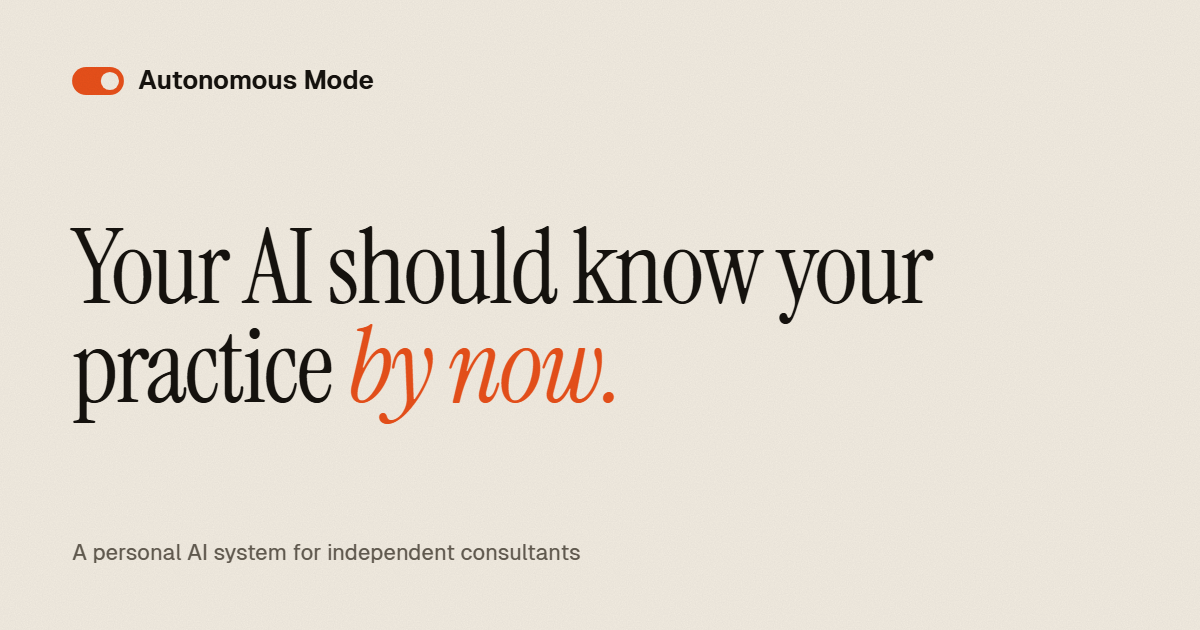
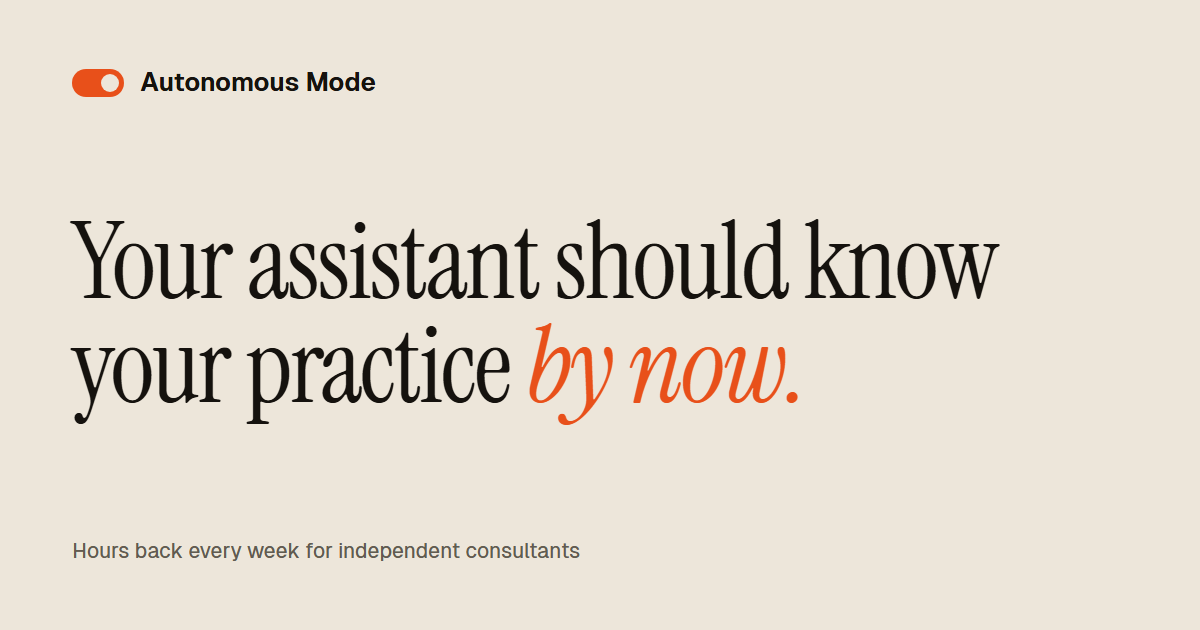
Lead with the result, not "AI": title, hero, meta and share image
Tab title now "hours back every week for independent consultants";
hero and og:title say "assistant"; descriptions and the share image
drop "AI" from the first thing a buyer sees.

diff --git a/index.html b/index.html
@@ -3,15 +3,15 @@
 <head>
 <meta charset="utf-8">
 <meta name="viewport" content="width=device-width, initial-scale=1">
-<title>Autonomous Mode: a personal AI system for consultants</title>
-<meta name="description" content="Your clients, offers and voice in one AI system that runs your recurring work. First command in 48 hours, fully set up in 14 days, guaranteed.">
+<title>Autonomous Mode: hours back every week for independent consultants</title>
+<meta name="description" content="Your clients, offers and voice in one system that runs your recurring work. First command in 48 hours, fully set up in 14 days, guaranteed.">
 <link rel="canonical" href="https://autonomous-mode.vercel.app/">
 <link rel="icon" href="/favicon.svg" type="image/svg+xml">
 <meta name="theme-color" content="#f2ece1">
 <meta property="og:type" content="website">
 <meta property="og:site_name" content="Autonomous Mode">
-<meta property="og:title" content="Your AI should know your practice by now.">
-<meta property="og:description" content="A personal AI system for independent consultants. First command in 48 hours, fully set up in 14 days.">
+<meta property="og:title" content="Your assistant should know your practice by now.">
+<meta property="og:description" content="Hours back every week for independent consultants. First command in 48 hours, fully set up in 14 days.">
 <meta property="og:url" content="https://autonomous-mode.vercel.app/">
 <meta property="og:image" content="https://autonomous-mode.vercel.app/assets/img/og.png">
 <meta property="og:image:width" content="1200">
@@ -230,7 +230,7 @@ footer a { color: var(--muted); }
   <div class="wrap hero">
     <div class="hero-copy">
       <p class="eyebrow">For independent consultants</p>
-      <h1>Your AI should know your practice <em>by now.</em></h1>
+      <h1>Your assistant should know your practice <em>by now.</em></h1>
       <p class="lede">Autonomous Mode is a personal AI system set up around the way you work: your clients, your offers, your voice. Briefs, proposals and follow-ups start from everything it already knows about you.</p>
       <div class="hero-cta">
         <a class="btn" href="https://calendly.com/theatosam/strategy-call" rel="noopener">Book a 20-minute call
